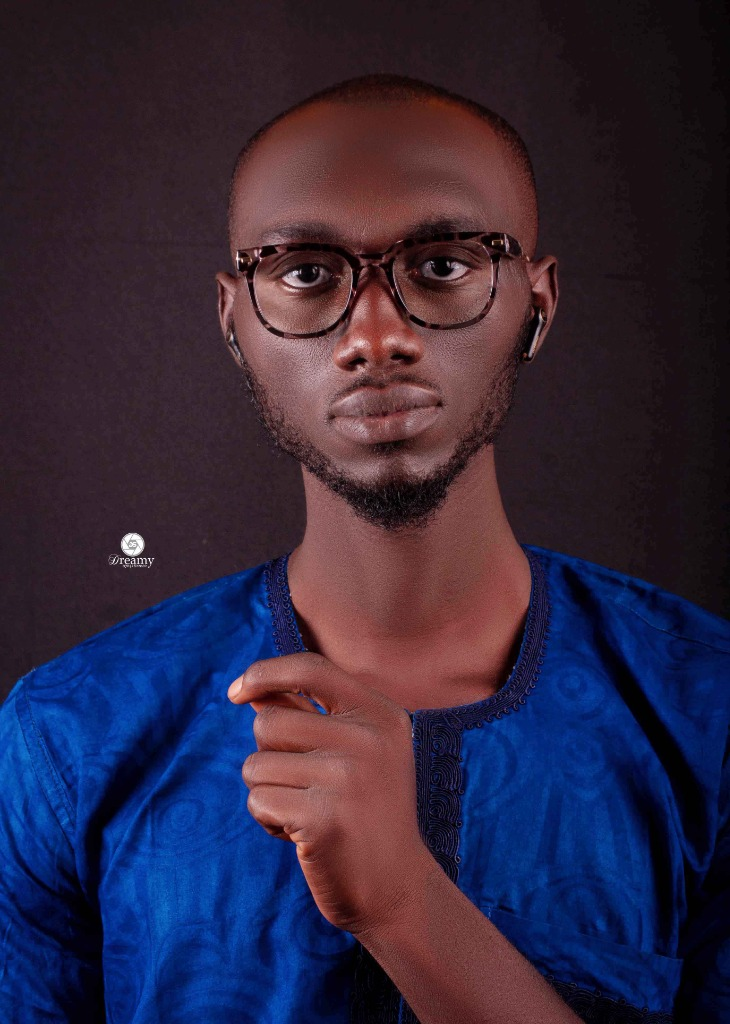
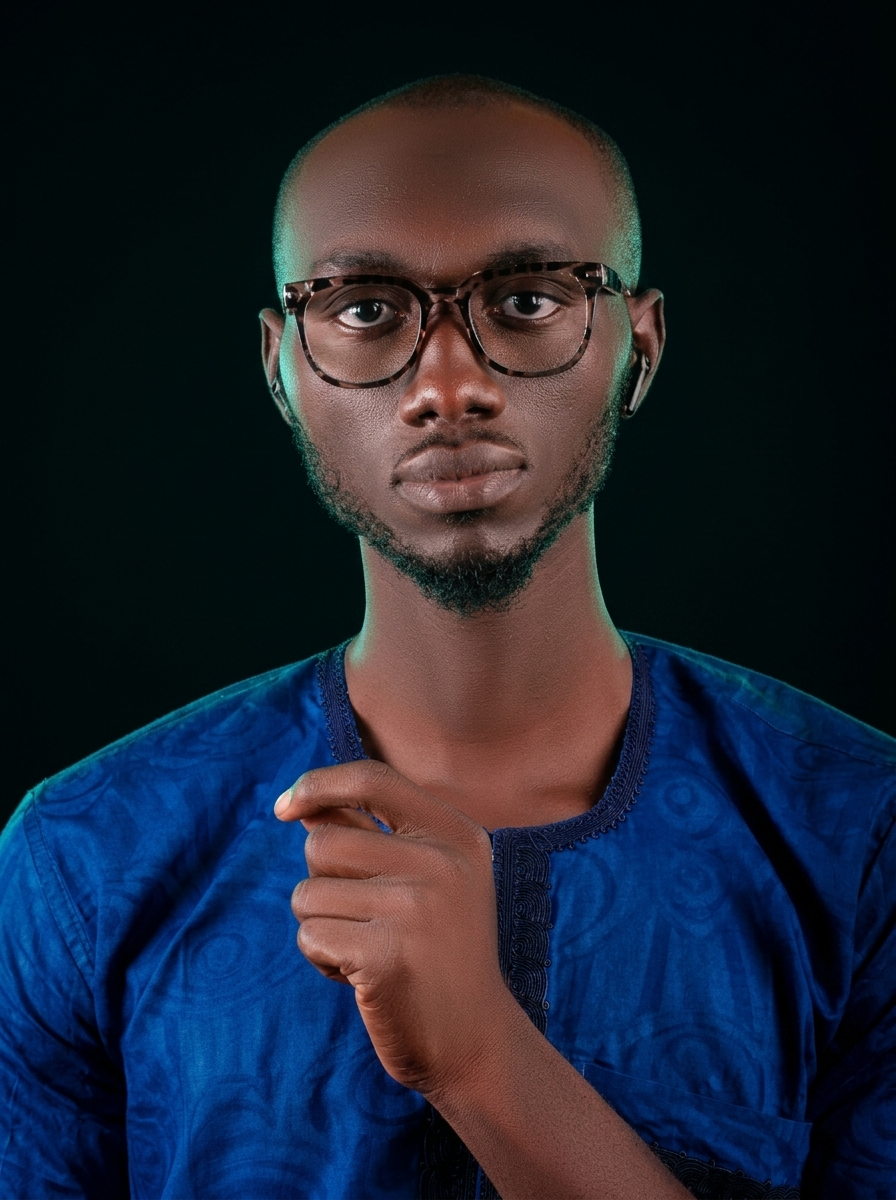
feat: Large portrait, retouched photo, CEO|Lead Creative title in About section

diff --git a/components/landing/AboutSection.tsx b/components/landing/AboutSection.tsx
@@ -3,7 +3,7 @@
 // About the Founder & Lead: Obande Sunday Itodo and the Uniquely Classic philosophy.
 
 import { motion } from "framer-motion";
-import { User, Award, Terminal, Code, Sparkles, CheckCircle2 } from "lucide-react";
+import { CheckCircle2 } from "lucide-react";
 import Image from "next/image";
 import { useStudioStore } from "@/lib/store";
 
@@ -25,6 +25,7 @@ export function AboutSection() {
   return (
     <section id="about" className="relative py-24 px-6 md:px-12 max-w-7xl mx-auto">
       <div className="grid grid-cols-1 lg:grid-cols-12 gap-12 items-center">
+
         {/* Left Narrative */}
         <div className="lg:col-span-7 flex flex-col gap-6">
           <div className="flex items-center gap-2">
@@ -43,7 +44,7 @@ export function AboutSection() {
               isDark ? "text-white" : "text-slate-950"
             }`}
           >
-            Hi, I’m{" "}
+            Hi, I&apos;m{" "}
             <span className={isDark ? "text-[#00e5a3]" : "text-[#0d9488]"}>
               Obande Sunday Itodo
             </span>{" "}
@@ -65,17 +66,21 @@ export function AboutSection() {
                 futuristic interactive technology
               </strong>
               . From designing prominent visual identities for major tech summits like the{" "}
-              <em>Jos TechFest AI Summit 2025</em> to engineering living 3D digital worlds, my work is driven by one core philosophy:
+              <em>Jos TechFest AI Summit 2025</em> to engineering living 3D digital worlds, my work
+              is driven by one core philosophy:
             </p>
             <blockquote
               className={`my-2 border-l-2 border-[#00e5a3] pl-4 py-1 font-display text-lg font-medium italic ${
                 isDark ? "text-white/90" : "text-slate-800"
               }`}
             >
-              “Uniquely Classic — creating visual experiences that feel timelessly structured yet undeniably ahead of their time.”
+              &ldquo;Uniquely Classic — creating visual experiences that feel timelessly structured
+              yet undeniably ahead of their time.&rdquo;
             </blockquote>
             <p>
-              Whether partnering with brands for full-scale visual suites, directing high-impact creative campaigns, or crafting interactive spatial web applications, every project is delivered with meticulous precision.
+              Whether partnering with brands for full-scale visual suites, directing high-impact
+              creative campaigns, or crafting interactive spatial web applications, every project is
+              delivered with meticulous precision.
             </p>
           </div>
 
@@ -86,7 +91,7 @@ export function AboutSection() {
                 isDark ? "text-white/40" : "text-slate-500"
               }`}
             >
-              Core Toolkit & Creative Stack
+              Core Toolkit &amp; Creative Stack
             </span>
             <div className="flex flex-wrap gap-2.5">
               {stack.map((item) => (
@@ -112,42 +117,63 @@ export function AboutSection() {
             initial={{ opacity: 0, scale: 0.95 }}
             whileInView={{ opacity: 1, scale: 1 }}
             viewport={{ once: true }}
-            className={`relative rounded-3xl border p-8 backdrop-blur-2xl ${
+            className={`relative rounded-3xl border overflow-hidden backdrop-blur-2xl ${
               isDark
                 ? "border-white/[0.1] bg-gradient-to-b from-[#0e141d] to-[#070a0f] shadow-[0_24px_64px_rgba(0,0,0,0.6)]"
                 : "border-slate-200 bg-gradient-to-b from-white to-slate-50 shadow-[0_16px_48px_rgba(0,0,0,0.08)]"
             }`}
           >
-            {/* Glowing Accent Ring */}
-            <div className="absolute top-0 right-0 h-40 w-40 rounded-full bg-[#00e5a3]/10 blur-3xl pointer-events-none" />
+            {/* Glowing Accent */}
+            <div className="absolute top-0 right-0 h-40 w-40 rounded-full bg-[#00e5a3]/10 blur-3xl pointer-events-none z-0" />
 
-            <div className="flex flex-col gap-6">
-              <div className="flex items-center gap-4">
-                <div className="relative flex h-16 w-16 items-center justify-center rounded-2xl border border-[#00e5a3]/30 shadow-[0_0_20px_rgba(0,229,163,0.2)] overflow-hidden shrink-0">
-                  <Image
-                    src="/obande.jpg"
-                    alt="Obande Sunday Itodo"
-                    fill
-                    className="object-cover"
-                    sizes="64px"
-                  />
-                </div>
-                <div>
-                  <h3
-                    className={`font-display text-xl font-bold ${
-                      isDark ? "text-white" : "text-slate-900"
-                    }`}
-                  >
-                    ObanHills Studio
-                  </h3>
-                  <span className={isDark ? "text-xs text-white/40" : "text-xs text-slate-500"}>
-                    Est. 2024 · Nigeria & Global
-                  </span>
-                </div>
+            {/* Large Portrait — full width, head fully visible */}
+            <div className="relative w-full h-80 sm:h-96 overflow-hidden">
+              <Image
+                src="/obande.jpg"
+                alt="Obande Sunday Itodo"
+                fill
+                className="object-cover object-top"
+                sizes="(max-width: 1024px) 100vw, 480px"
+                priority
+              />
+              {/* Gradient fade into card body */}
+              <div
+                className={`absolute bottom-0 left-0 right-0 h-28 bg-gradient-to-t ${
+                  isDark ? "from-[#0e141d]" : "from-white"
+                } to-transparent`}
+              />
+            </div>
+
+            {/* Card Body */}
+            <div className="relative z-10 flex flex-col gap-5 px-7 pb-7 -mt-6">
+              {/* Name & Title */}
+              <div>
+                <h3
+                  className={`font-display text-2xl font-bold ${
+                    isDark ? "text-white" : "text-slate-900"
+                  }`}
+                >
+                  Obande Sunday Itodo
+                </h3>
+                <span
+                  className={`text-sm font-semibold tracking-wide ${
+                    isDark ? "text-[#00e5a3]" : "text-[#0d9488]"
+                  }`}
+                >
+                  CEO | Lead Creative
+                </span>
+                <p
+                  className={`text-xs mt-0.5 ${
+                    isDark ? "text-white/40" : "text-slate-500"
+                  }`}
+                >
+                  ObanHills Studio · Est. 2024 · Nigeria &amp; Global
+                </p>
               </div>
 
+              {/* Info Rows */}
               <div
-                className={`space-y-4 text-xs leading-relaxed border-t pt-5 ${
+                className={`space-y-3 text-xs leading-relaxed border-t pt-5 ${
                   isDark ? "border-white/[0.08] text-white/60" : "border-slate-200 text-slate-600"
                 }`}
               >
@@ -159,7 +185,7 @@ export function AboutSection() {
                   >
                     Specialization:
                   </span>
-                  <span>Brand Identity, AI Creative Systems & 3D Web</span>
+                  <span>Brand Identity, AI Creative Systems &amp; 3D Web</span>
                 </div>
                 <div className="flex items-start gap-3">
                   <span
@@ -175,7 +201,7 @@ export function AboutSection() {
                     }`}
                   >
                     <span className="h-1.5 w-1.5 rounded-full bg-[#00e5a3] animate-pulse" />
-                    Available for commissions & collaborations
+                    Available for commissions &amp; collaborations
                   </span>
                 </div>
                 <div className="flex items-start gap-3">
@@ -200,11 +226,12 @@ export function AboutSection() {
                 href="#contact"
                 className="mt-2 flex items-center justify-center gap-2 rounded-xl border border-[#00e5a3]/40 bg-[#00e5a3]/20 py-3 text-xs font-bold uppercase tracking-wider text-[#008f66] dark:text-[#00e5a3] transition-all hover:bg-[#00e5a3]/30 hover:shadow-[0_0_24px_rgba(0,229,163,0.2)]"
               >
-                Let’s Build Together →
+                Let&apos;s Build Together →
               </a>
             </div>
           </motion.div>
         </div>
+
       </div>
     </section>
   );
